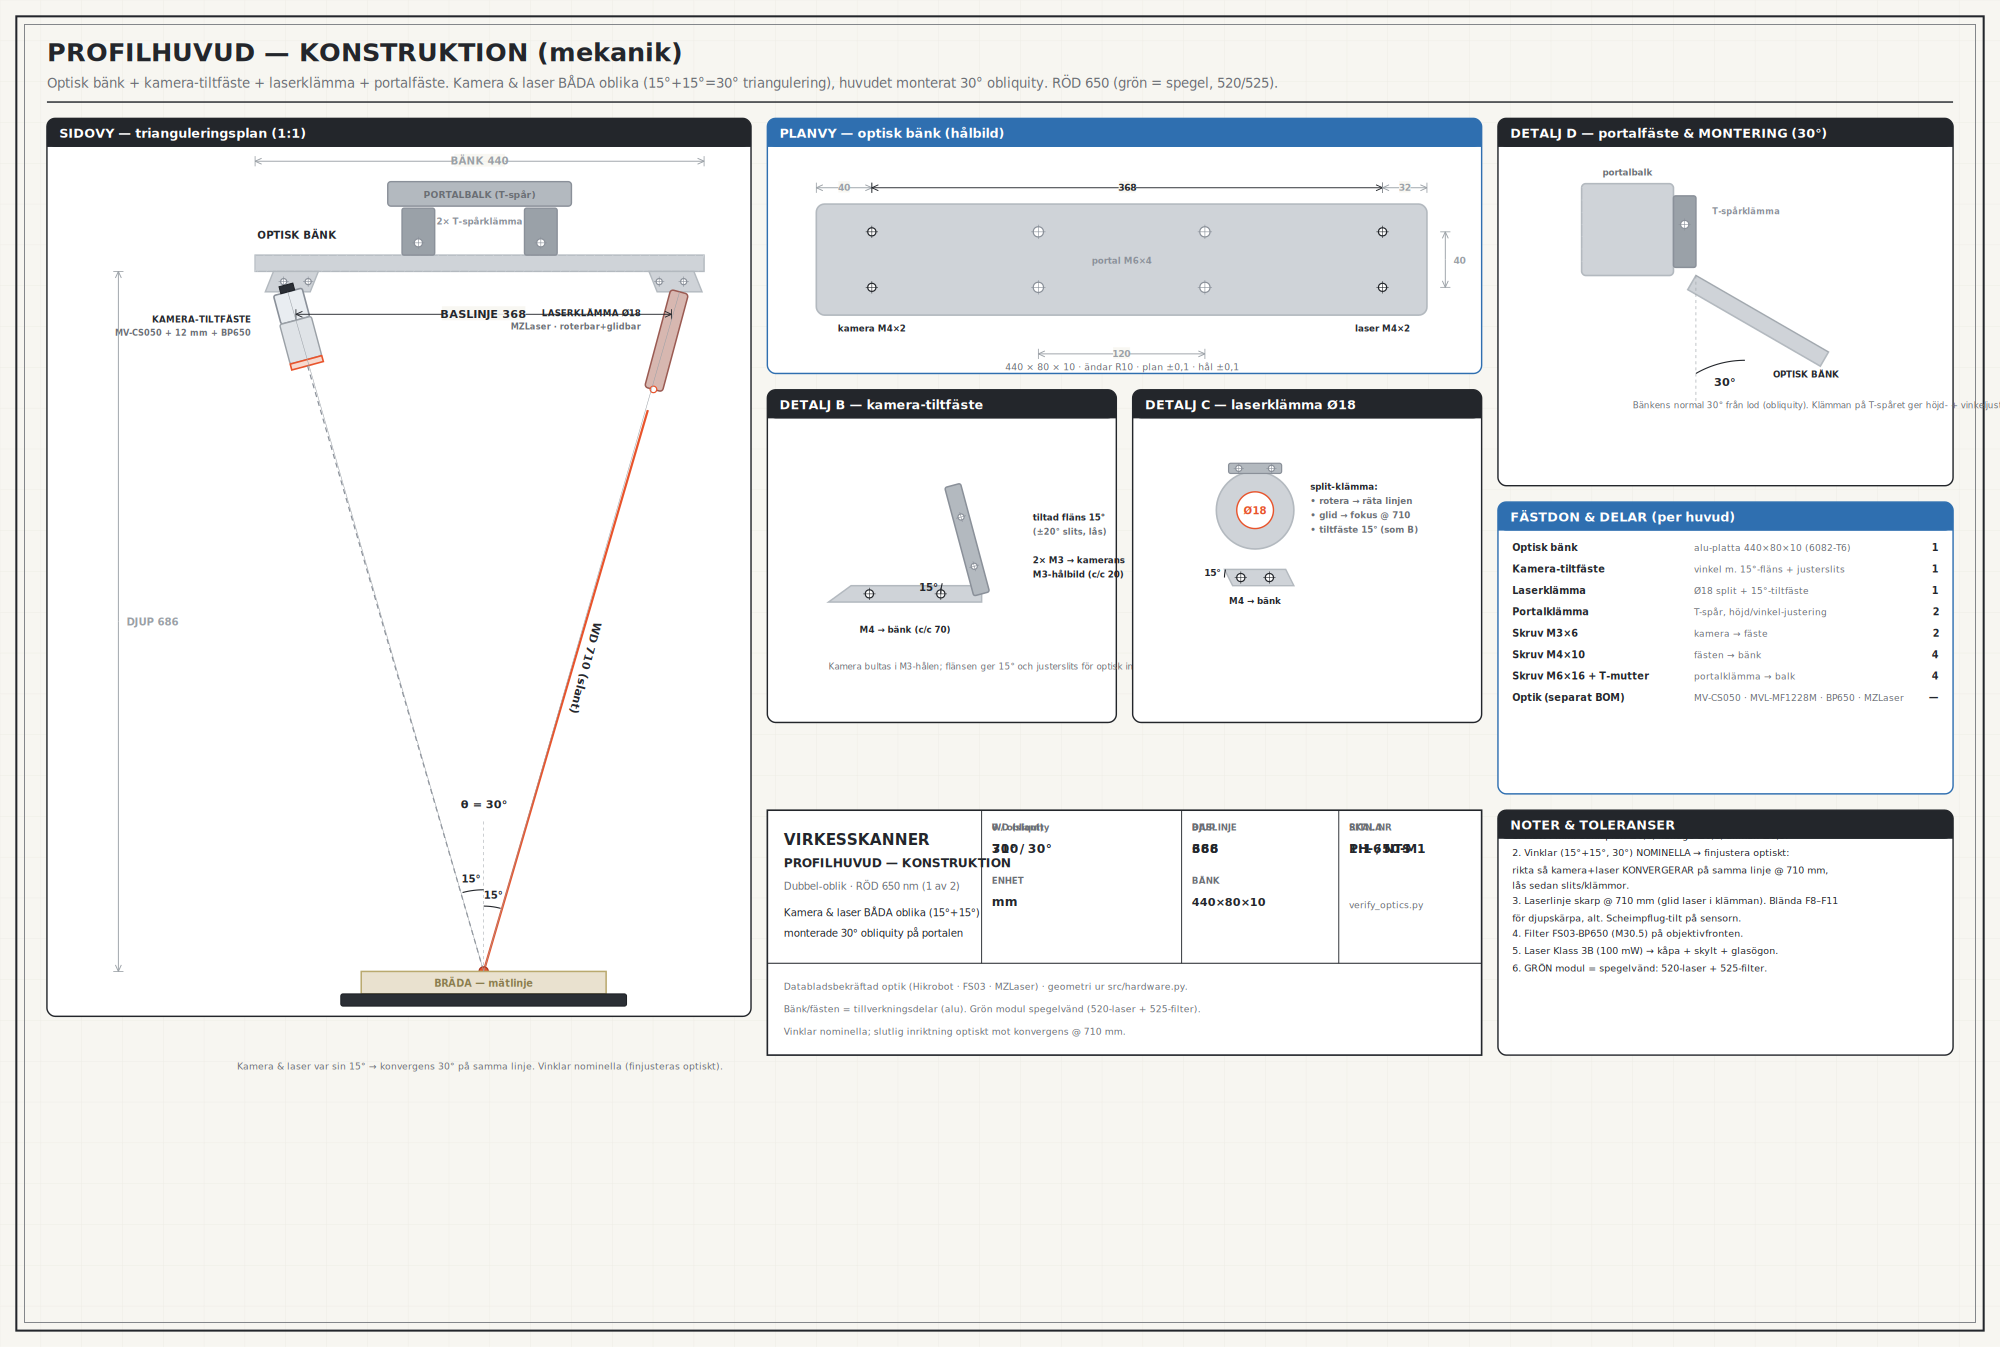
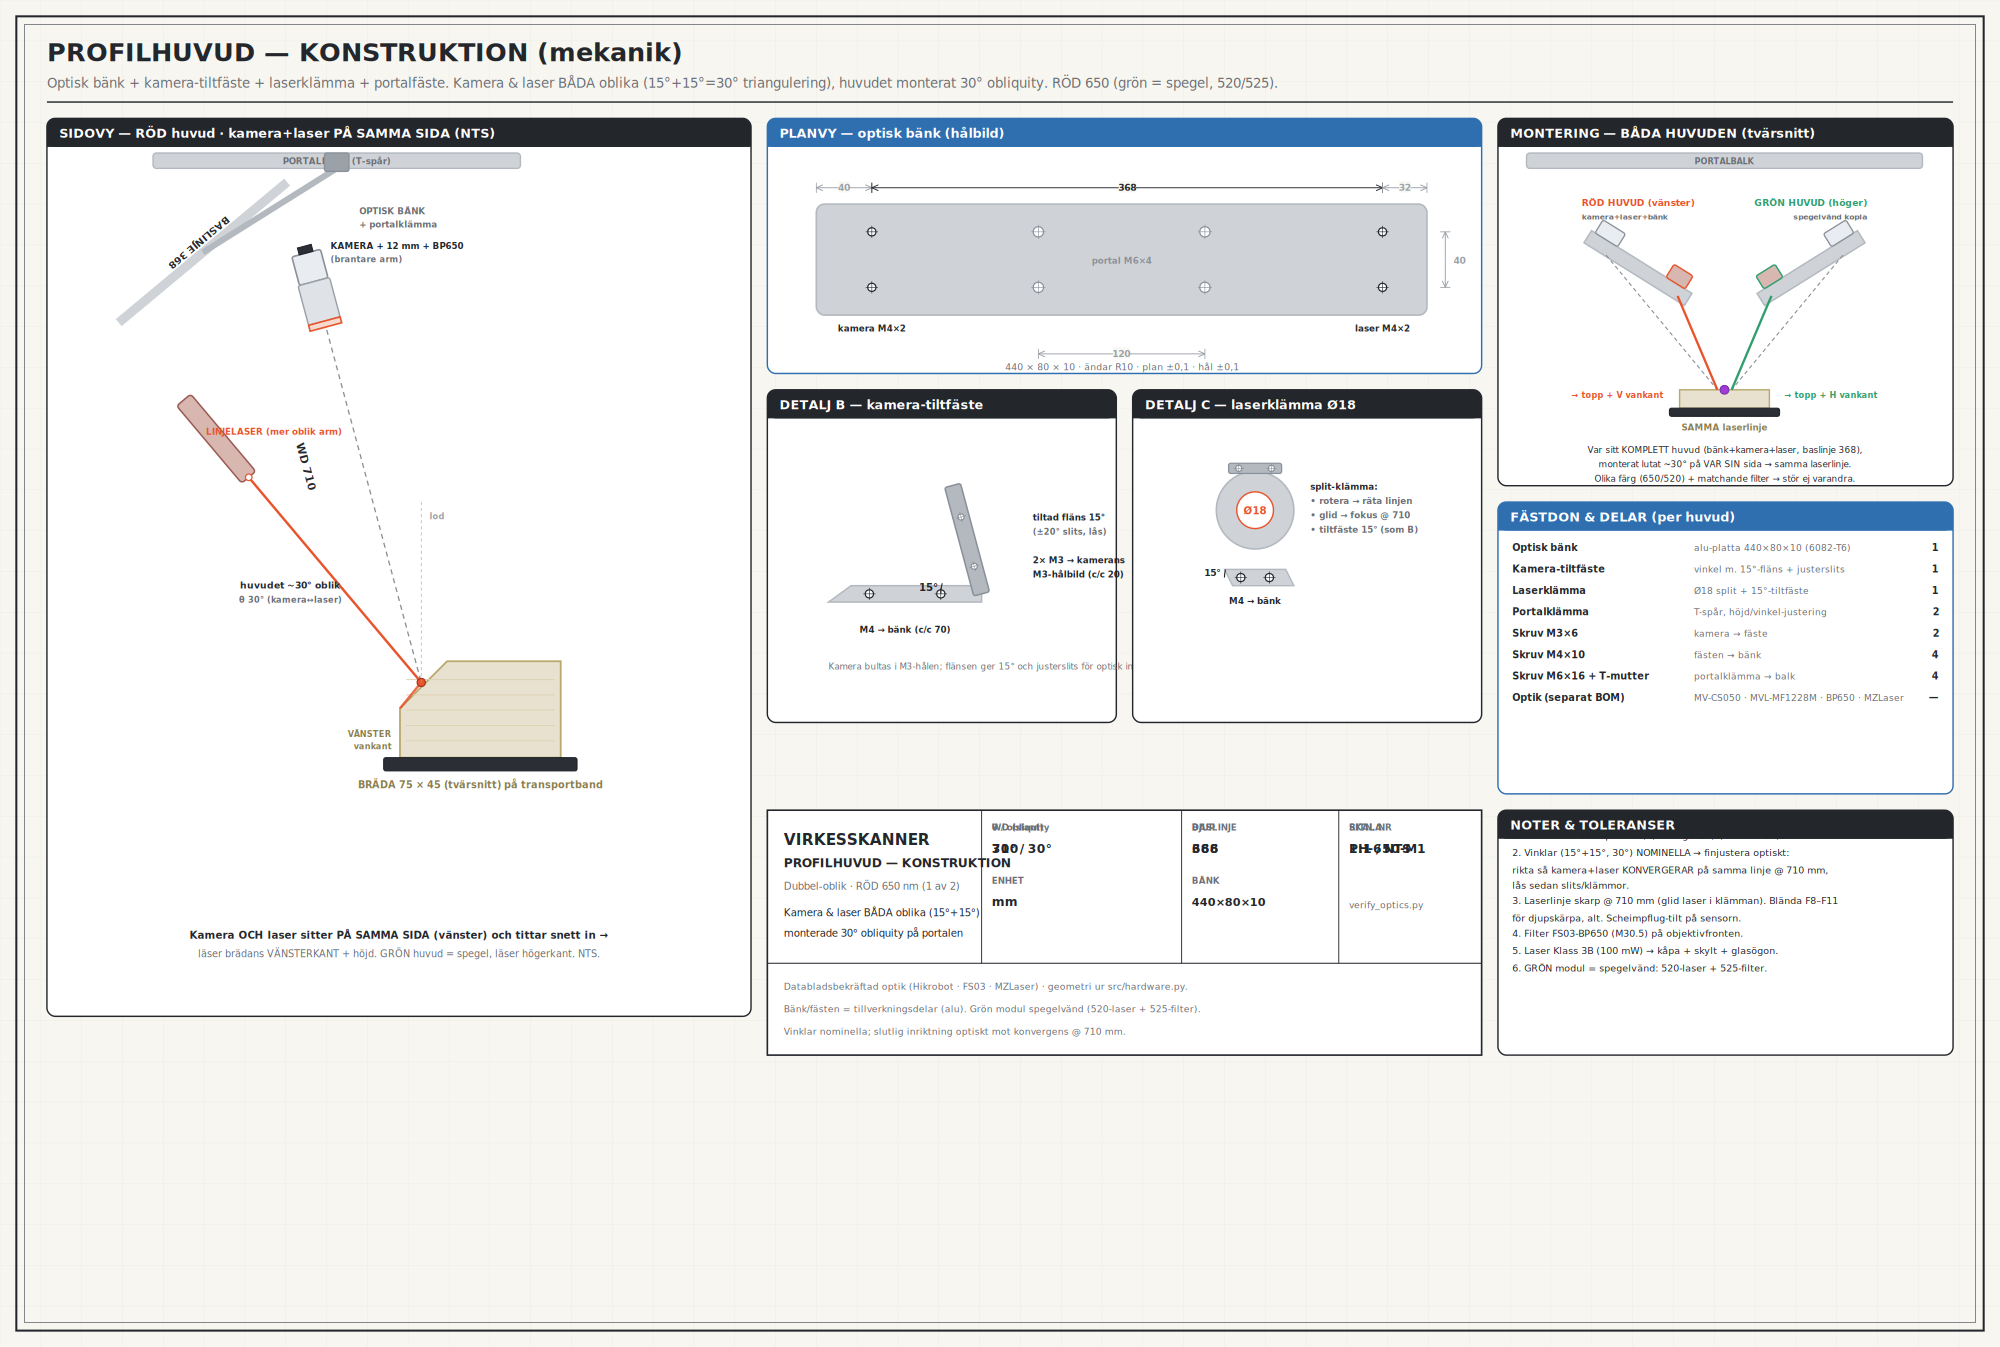
Rätta huvuddesignen: kamera+laser på SAMMA sida per huvud (läser kanten)
Användaren fångade ett verkligt geometrifel: jag hade kamera + laser på
motsatta ändar (motsatta sidor av brädan) → tittade rakt ovanifrån, läste
bara toppen. För att RÖDA huvudet ska läsa VÄNSTERKANTEN måste kamera OCH
laser sitta på SAMMA sida (vänster) och titta snett in; GRÖNA = spegel på
höger sida (högerkant).

- SIDOVY omgjord: ett oblikt huvud med kamera (brantare arm) + laser (mer
  oblik arm) BÅDA på vänster sida, optisk bänk (baslinje 368) förbinder dem,
  lasern grazar vänster vankant. Bräda m. vankant nere till höger.
- MONTERING-vy (DETALJ D): två KOMPLETTA huvuden (var sitt bänk+kamera+laser)
  på var sin sida av portalen, konvergerar på SAMMA laserlinje (röd V-kant,
  grön H-kant). Olika färg → stör ej varandra.

diff --git a/tools/draw_head_mech.py b/tools/draw_head_mech.py
@@ -84,62 +84,52 @@ txt(46, 86, "Optisk bänk + kamera-tiltfäste + laserklämma + portalfäste. Kam
 line(46, 100, W-46, 100, INK, 1.4)
 
 # =================================================================== SIDOVY (1:1, trianguleringsplan)
-panel(46, 116, 690, 880, "SIDOVY — trianguleringsplan  (1:1)", INK)
-ox, plY = 250, 250                              # bänkens vänsterände (screen) , bänk-överkant
-def BX(mm): return ox + mm                        # 1 px = 1 mm
-plTpx = PL_T*1.6                                  # tjocklek lite överdriven för synlighet
-# --- optisk bänk ---
-hatchband(BX(0), plY, PL_L, plTpx)
-txt(BX(2), plY-16, "OPTISK BÄNK", 10, "start", INK, 700)
-# --- portalfäste (ovan bänk) + portalbalk ---
-for px in (PORT_X1, PORT_X2):
-    rect(BX(px)-16, plY-46, 32, 46, ALU3, STEEL, 1.4, 2); hole(BX(px), plY-12, 4, STEEL)
-rect(BX(PORT_X1)-30, plY-72, BX(PORT_X2)-BX(PORT_X1)+60, 24, ALU2, STEEL, 1.4, 3)
-txt(BX((PORT_X1+PORT_X2)/2), plY-56, "PORTALBALK (T-spår)", 9, "middle", MUTED, 700)
-txt(BX((PORT_X1+PORT_X2)/2), plY-30, "2× T-spårklämma", 8.5, "middle", STEEL, 700)
-# --- kamera-tiltfäste + kamera (oblik 15°, pekar ned mot T) ---
-cmx, cmy = BX(CAM_X), plY+plTpx
-T = (BX((CAM_X+LAS_X)/2), plY+plTpx+DEPTH)        # konvergenspunkt (mätlinje)
-def aim(px, py): d = math.hypot(T[0]-px, T[1]-py); return (T[0]-px)/d, (T[1]-py)/d
-ucx, ucy = aim(cmx, cmy); angc = math.degrees(math.atan2(ucy, ucx))-90
-# tiltfäste (kil)
-poly([(cmx-22,cmy),(cmx+22,cmy),(cmx+14,cmy+20),(cmx-30,cmy+20)], ALU, ALU2, 1.4)
-hole(cmx-12, cmy+10, 3, STEEL); hole(cmx+12, cmy+10, 3, STEEL)
-add(f'<g transform="translate({cmx-8:.1f},{cmy+20:.1f}) rotate({angc:.1f})">')
-rect(-CAM_W/2, 0, CAM_W, CAM_L, "#e9edf1", STEEL, 1.6, 2)          # kamera
-rect(-7, -7, 14, 7, BLACK, "#1c1f24", 1)                            # USB3
-rect(-LENS_D/2, CAM_L, LENS_D, LENS_L, "#dfe3e7", "#9aa0a6", 1.4, 2) # objektiv
-rect(-FILT_D/2, CAM_L+LENS_L, FILT_D, FILT_L, "#f6d9cf", RED, 1.6)   # filter
+panel(46, 116, 690, 880, "SIDOVY — RÖD huvud · kamera+laser PÅ SAMMA SIDA (NTS)", INK)
+# --- bräda (tvärsnitt) med VÄNSTER vankant = den kant huvudet läser ---
+bs = 2.1; bcx, btY = 392, 648
+bw, bt, wn = 75*bs, 45*bs, 22*bs
+poly([(bcx, btY+wn),(bcx+wn, btY),(bcx+bw, btY),(bcx+bw, btY+bt),(bcx, btY+bt)], WOOD, "#b9a96f", 1.8)
+for yy in range(int(btY)+18, int(btY+bt)-4, 15): line(bcx+6, yy, bcx+bw-6, yy, "#ddd2b4", 1)
+rect(bcx-16, btY+bt, bw+32, 13, BLACK, "#1c1f24", 1, 2)
+txt(bcx+bw/2, btY+bt+30, "BRÄDA 75 × 45 (tvärsnitt) på transportband", 9.5, "middle", "#8a7d4e", 700)
+txt(bcx-8, btY+wn+28, "VÄNSTER", 8, "end", "#8a7d4e", 700); txt(bcx-8, btY+wn+40, "vankant", 8, "end", "#8a7d4e", 700)
+Tp = (bcx+wn*0.45, btY+wn*0.45)               # mät-/laserpunkt på vänstra topphörnet
+# --- portal + RÖD huvud (upp-vänster, lutat) — BÅDA på vänster sida ---
+rect(150, 150, 360, 15, ALU, ALU2, 1.4, 3); txt(330, 161, "PORTALBALK (T-spår)", 8.5, "middle", MUTED, 700)
+camp, lasp = (300, 248), (180, 392)            # kamera brantare, laser mer oblik — BÅDA vänster
+def aimT(p): d = math.hypot(Tp[0]-p[0], Tp[1]-p[1]); return ((Tp[0]-p[0])/d, (Tp[1]-p[1])/d)
+uc, ul = aimT(camp), aimT(lasp)
+cb = (camp[0]-uc[0]*72, camp[1]-uc[1]*72); lb = (lasp[0]-ul[0]*99, lasp[1]-ul[1]*99)
+line(cb[0], cb[1], lb[0], lb[1], ALU, 9)        # OPTISK BÄNK (förbinder båda, på samma sida)
+midb = ((cb[0]+lb[0])/2, (cb[1]+lb[1])/2)
+line(midb[0], midb[1], 330, 165, ALU2, 6); rect(318, 150, 24, 18, ALU3, STEEL, 1.3, 2)   # portalklämma
+txt(352, 210, "OPTISK BÄNK", 8.5, "start", MUTED, 700); txt(352, 223, "+ portalklämma", 8.5, "start", MUTED, 700)
+# kamera (roterad, pekar ned-höger)
+angc = math.degrees(math.atan2(uc[1], uc[0]))-90
+add(f'<g transform="translate({camp[0]},{camp[1]}) rotate({angc:.1f})">')
+rect(-CAM_W/2,0,CAM_W,CAM_L,"#e9edf1",STEEL,1.6,2); rect(-7,-7,14,7,BLACK,"#1c1f24",1)
+rect(-LENS_D/2,CAM_L,LENS_D,LENS_L,"#dfe3e7","#9aa0a6",1.4,2); rect(-FILT_D/2,CAM_L+LENS_L,FILT_D,FILT_L,"#f6d9cf",RED,1.6)
 add('</g>')
-txt(cmx-44, cmy+50, "KAMERA-TILTFÄSTE", 8.5, "end", INK, 700); txt(cmx-44, cmy+63, "MV-CS050 + 12 mm + BP650", 8, "end", MUTED, 700)
-# --- laserklämma + laser (oblik 15°) ---
-lmx, lmy = BX(LAS_X), plY+plTpx
-ulx, uly = aim(lmx, lmy); angl = math.degrees(math.atan2(uly, ulx))-90
-poly([(lmx-22,lmy),(lmx+22,lmy),(lmx+30,lmy+20),(lmx-14,lmy+20)], ALU, ALU2, 1.4)
-hole(lmx-12, lmy+10, 3, STEEL); hole(lmx+12, lmy+10, 3, STEEL)
-add(f'<g transform="translate({lmx+8:.1f},{lmy+20:.1f}) rotate({angl:.1f})">')
-rect(-LAS_D/2, 0, LAS_D, LAS_L, "#d7b7b0", "#9a5a52", 1.5, 3)        # laser
-circ(0, LAS_L, 3.2, "#fff", RED, 1.2)                                # apertur
+txt(camp[0]+24, camp[1]-4, "KAMERA + 12 mm + BP650", 8.5, "start", INK, 700); txt(camp[0]+24, camp[1]+9, "(brantare arm)", 8, "start", MUTED, 700)
+# laser (roterad, pekar ned-höger, mer oblik)
+angl = math.degrees(math.atan2(ul[1], ul[0]))-90
+add(f'<g transform="translate({lasp[0]},{lasp[1]}) rotate({angl:.1f})">')
+rect(-LAS_D/2,0,LAS_D,LAS_L,"#d7b7b0","#9a5a52",1.5,3); circ(0,LAS_L,3.2,"#fff",RED,1.2)
 add('</g>')
-txt(lmx-30, lmy+44, "LASERKLÄMMA Ø18", 8.5, "end", INK, 700); txt(lmx-30, lmy+57, "MZLaser · roterbar+glidbar", 8, "end", MUTED, 700)
-# --- strålar konvergerar vid T ---
-line(cmx-8+ucx*75, cmy+20+ucy*75, T[0], T[1], "#8a9099", 1.2, "5 4")    # kamerasikt
-line(lmx+8+ulx*120, lmy+20+uly*120, T[0], T[1], RED, 2.2)               # laserblad
-circ(T[0], T[1], 4.5, RED, "#a8331a", 1.2)
-rect(T[0]-120, T[1], 240, 22, WOOD, "#b9a96f", 1.5); txt(T[0], T[1]+15, "BRÄDA — mätlinje", 9.5, "middle", "#8a7d4e", 700)
-rect(T[0]-140, T[1]+22, 280, 12, BLACK, "#1c1f24", 1, 2)
-# --- måttsättning ---
-hdim(cmx, lmx, plY+plTpx+42, f"BASLINJE {BASE}", INK, 11)              # kamera↔laser på bänken
-hdim(BX(0), BX(PL_L), plY-92, f"BÄNK {PL_L}", DIMC, 10)
-vdim(plY+plTpx, T[1], 116, f"DJUP {DEPTH}", DIMC, 10)                  # vinkelrätt djup (vänster)
-# WD längs laserstrålen
-mxw, myw = (lmx+T[0])/2, (lmy+T[1])/2
-txt(mxw+16, myw, f"WD {WD:.0f} (slant)", 11, "start", INK, 700, MONO, rot=math.degrees(math.atan2(uly,ulx)))
-# vinklar 15° vid T
-line(T[0], T[1], cmx-8, cmy+20, DIMC, 0.5); line(T[0], T[1], lmx+8, lmy+20, DIMC, 0.5); line(T[0], T[1], T[0], T[1]-150, DIMC, 0.5, "3 3")
-adim(T[0], T[1], 80, 270-15, 270, "15°", INK, 10); adim(T[0], T[1], 64, 270, 270+15, "15°", INK, 10)
-txt(T[0], T[1]-160, "θ = 30°", 11, "middle", INK, 700, MONO)
-txt(BX(PL_L/2), plY+plTpx+DEPTH+96, "Kamera & laser var sin 15° → konvergens 30° på samma linje. Vinklar nominella (finjusteras optiskt).", 9, "middle", MUTED, 400)
+txt(lasp[0]+22, lasp[1]+34, "LINJELASER (mer oblik arm)", 8.5, "start", RED, 700)
+# strålar → grazar VÄNSTER vankant
+line(camp[0]+uc[0]*78, camp[1]+uc[1]*78, Tp[0], Tp[1], "#8a9099", 1.3, "5 4")   # kamerasikt
+line(lasp[0]+ul[0]*102, lasp[1]+ul[1]*102, Tp[0], Tp[1], RED, 2.4)              # laserblad
+line(Tp[0], Tp[1], bcx, btY+wn, RED, 2.4, op=0.85)                              # laser ned längs vankanten
+circ(Tp[0], Tp[1], 4, RED, "#a8331a", 1.2)
+# mått (NTS-etiketter)
+txt((camp[0]+Tp[0])/2-60, (camp[1]+Tp[1])/2, "WD 710", 11, "middle", INK, 700, MONO, rot=math.degrees(math.atan2(uc[1],uc[0])))
+txt(midb[0]-6, midb[1]-12, "BASLINJE 368", 9.5, "middle", INK, 700, MONO, rot=math.degrees(math.atan2(lb[1]-cb[1], lb[0]-cb[0])))
+line(Tp[0], Tp[1], Tp[0], Tp[1]-180, DIMC, 0.6, "3 3"); txt(Tp[0]+8, Tp[1]-160, "lod", 8, "start", DIMC, 700)
+txt(Tp[0]-128, Tp[1]-92, "huvudet ~30° oblik", 9, "middle", INK, 700); txt(Tp[0]-128, Tp[1]-78, "θ 30° (kamera↔laser)", 8, "middle", MUTED, 700)
+# note
+txt(391, 920, "Kamera OCH laser sitter PÅ SAMMA SIDA (vänster) och tittar snett in →", 10, "middle", INK, 700)
+txt(391, 938, "läser brädans VÄNSTERKANT + höjd. GRÖN huvud = spegel, läser högerkant. NTS.", 9.5, "middle", MUTED, 400)
 
 # =================================================================== PLANVY (bänk ovanifrån)
 panel(752, 116, 700, 250, "PLANVY — optisk bänk (hålbild)", BLUE)
@@ -188,22 +178,32 @@ poly([(lx-30,ly+58),(lx+30,ly+58),(lx+38,ly+74),(lx-22,ly+74)], ALU, ALU2, 1.4)
 hole(lx-14, ly+66, 4); hole(lx+14, ly+66, 4); txt(lx, ly+92, "M4 → bänk", 8.5, "middle", INK, 700)
 adim(lx, ly+66, 30, 180, 195, "15°", INK, 9)
 
-# =================================================================== DETALJ: PORTALFÄSTE / MONTERING
-panel(1468, 116, 446, 360, "DETALJ D — portalfäste & MONTERING (30°)", INK)
-mx, my = 1620, 250
-# portalbalk (snitt) + klämma + bänk tiltad 30°
-rect(mx-70, my-70, 90, 90, ALU, ALU2, 1.6, 4); txt(mx-25, my-78, "portalbalk", 8.5, "middle", MUTED, 700)
-for sy in range(int(my-66), int(my+18), 12): line(mx-70, sy, mx-44, sy, HATCH, 0.6)
-rect(mx+20, my-58, 22, 70, ALU3, STEEL, 1.5, 2); hole(mx+31, my-30, 4, STEEL); txt(mx+58, my-40, "T-spårklämma", 8, "start", STEEL, 700)
-add(f'<g transform="translate({mx+42},{my+20}) rotate(30)">')
-rect(0, 0, 150, 16, ALU, ALU2, 1.6)
+# =================================================================== DETALJ D — MONTERING: BÅDA HUVUDEN
+panel(1468, 116, 446, 360, "MONTERING — BÅDA HUVUDEN (tvärsnitt)", INK)
+cxm, cym = 1690, 382
+rect(1496, 150, 388, 15, ALU, ALU2, 1.4, 3); txt(1690, 161, "PORTALBALK", 8, "middle", MUTED, 700)
+rect(cxm-44, cym, 88, 18, WOOD, "#b9a96f", 1.4); rect(cxm-54, cym+18, 108, 8, BLACK, "#1c1f24", 1, 2)
+txt(cxm, cym+40, "SAMMA laserlinje", 8.5, "middle", "#8a7d4e", 700)
+# RÖD huvud (vänster) — komplett bänk+kamera+laser, lutat ~30° inåt
+rhx, rhy = 1556, 232
+add(f'<g transform="translate({rhx},{rhy}) rotate(32)">')
+rect(0,-7,116,14, ALU, ALU2, 1.5); rect(4,-22,26,15,"#e9edf1",STEEL,1.3,2); rect(86,-22,22,15,"#d7b7b0",RED,1.4,2)
 add('</g>')
-txt(mx+150, my+120, "OPTISK BÄNK", 8.5, "middle", INK, 700)
-# obliquity-vinkel mot lod
-line(mx+42, my+20, mx+42, my+150, DIMC, 0.6, "3 3")
-line(mx+42, my+20, mx+42+150*math.cos(math.radians(30)), my+20+150*math.sin(math.radians(30)), DIMC, 0.6)
-adim(mx+42, my+20, 96, 90, 60, "30°", INK, 11)
-txt(mx-20, my+150, "Bänkens normal 30° från lod (obliquity). Klämman på T-spåret ger höjd- + vinkeljustering.", 8.5, "start", MUTED, 400)
+line(rhx+18, rhy+18, cxm-7, cym, "#8a9099", 1.1, "4 3"); line(rhx+88, rhy+58, cxm-7, cym, RED, 2.3)
+txt(rhx-6, rhy-30, "RÖD HUVUD (vänster)", 9, "start", RED, 700); txt(rhx-6, rhy-17, "kamera+laser+bänk", 7.5, "start", MUTED, 700)
+txt(cxm-150, cym+8, "→ topp + V vankant", 8, "start", RED, 700)
+# GRÖN huvud (höger) — spegel
+ghx, ghy = 1824, 232
+add(f'<g transform="translate({ghx},{ghy}) rotate(-32)">')
+rect(-116,-7,116,14, ALU, ALU2, 1.5); rect(-30,-22,26,15,"#e9edf1",STEEL,1.3,2); rect(-108,-22,22,15,"#d7b7b0",GRN,1.4,2)
+add('</g>')
+line(ghx-18, ghy+18, cxm+7, cym, "#8a9099", 1.1, "4 3"); line(ghx-88, ghy+58, cxm+7, cym, GRN, 2.3)
+txt(ghx+6, ghy-30, "GRÖN HUVUD (höger)", 9, "end", GRN, 700); txt(ghx+6, ghy-17, "spegelvänd kopia", 7.5, "end", MUTED, 700)
+txt(cxm+150, cym+8, "→ topp + H vankant", 8, "end", GRN, 700)
+circ(cxm, cym, 4.2, "#a23ad6", "#7a2fb0", 1.2)
+txt(1690, cym+62, "Var sitt KOMPLETT huvud (bänk+kamera+laser, baslinje 368),", 8.6, "middle", INK, 400)
+txt(1690, cym+76, "monterat lutat ~30° på VAR SIN sida → samma laserlinje.", 8.6, "middle", INK, 400)
+txt(1690, cym+90, "Olika färg (650/520) + matchande filter → stör ej varandra.", 8.6, "middle", INK, 400)
 
 # =================================================================== FÄSTDON / DELAR
 panel(1468, 492, 446, 286, "FÄSTDON & DELAR (per huvud)", BLUE)
